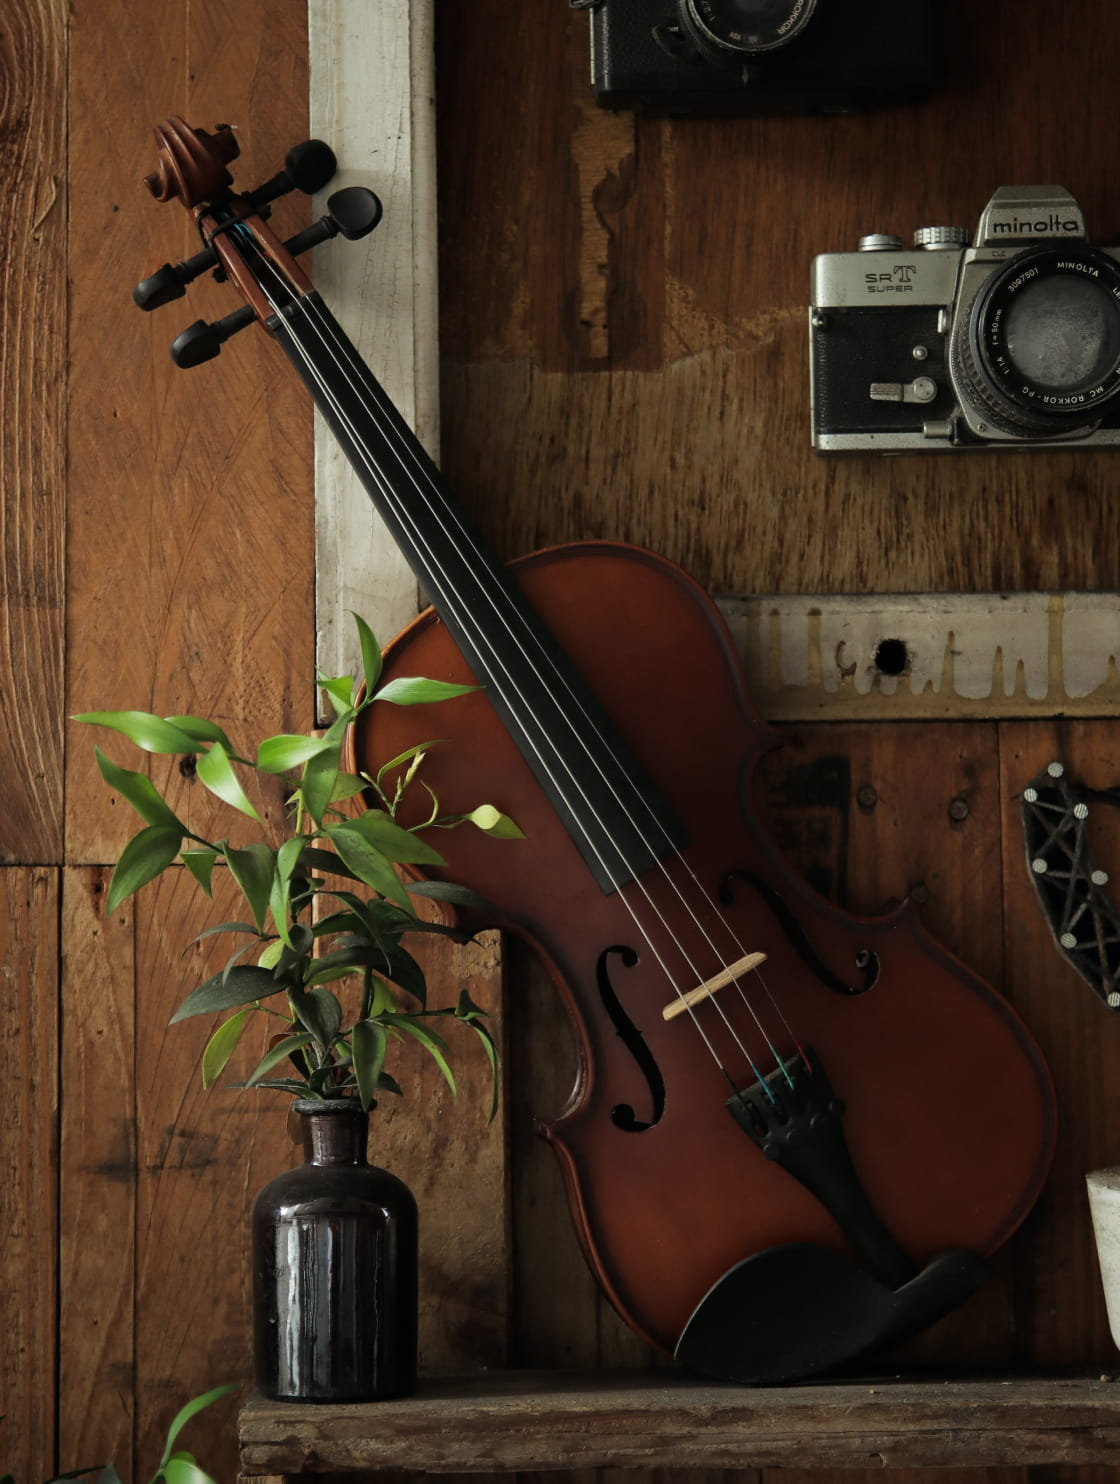
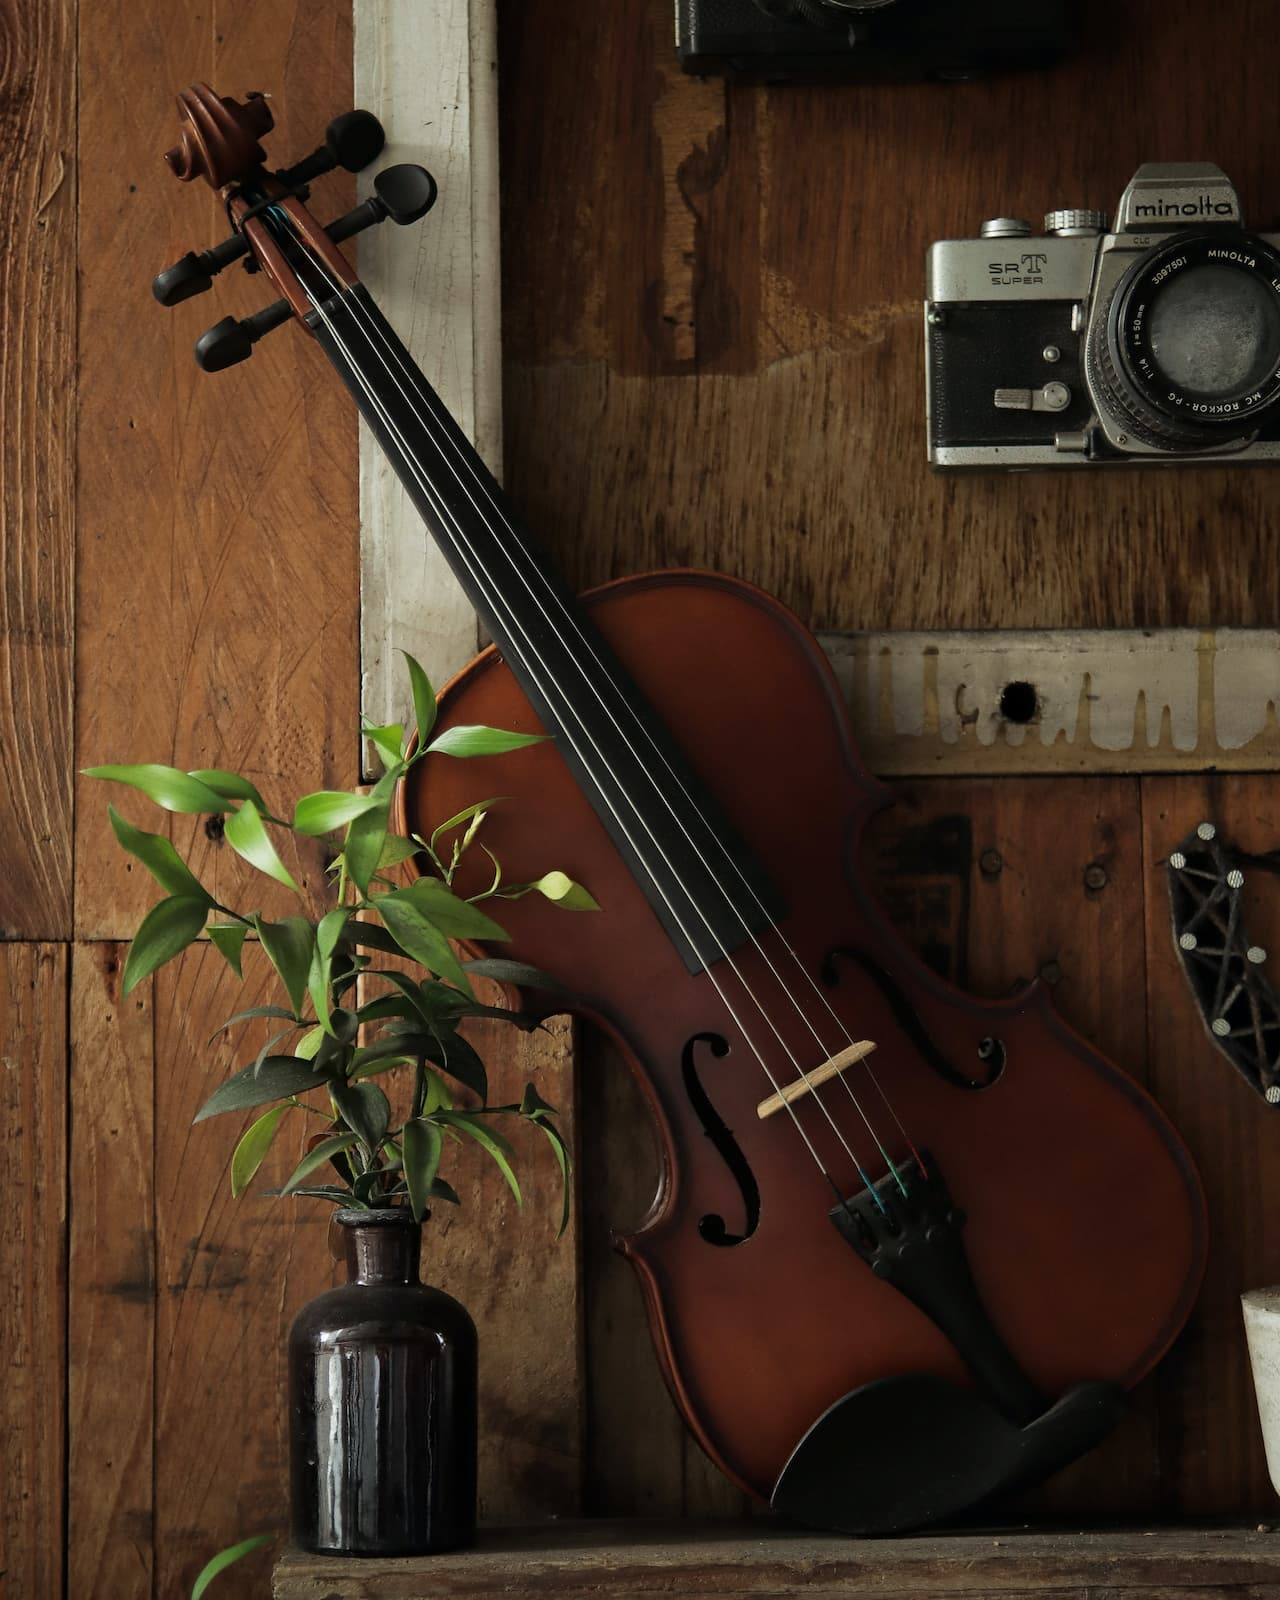
update-introdução

diff --git a/site3/css/style.css b/site3/css/style.css
@@ -1,48 +1,68 @@
 @charset "UTF-8";
 
-@import url('https://fonts.googleapis.com/css2?family=Courgette&family=Pacifico&family=Roboto:wght@400;500;700;900&display=swap');
+@import url("https://fonts.googleapis.com/css2?family=Courgette&family=Pacifico&family=Roboto:wght@400;500;700;900&display=swap");
 
 @import "./header.css";
+@import "./introducao.css";
 
 :root {
-  --w:   #f7f7f7;
-  --s2:  #ededed;
-  --s3:  #dedede;
-  --s4:  #cccccc;
-  --s5:  #b2b2b2;
-  --s6:  #9c9c9c;
-  --s7:  #717171;
-  --s8:  #595959;
-  --s9:  #404040;
+  --w: #f7f7f7;
+  --s2: #ededed;
+  --s3: #dedede;
+  --s4: #cccccc;
+  --s5: #b2b2b2;
+  --s6: #9c9c9c;
+  --s7: #717171;
+  --s8: #595959;
+  --s9: #404040;
   --s10: #2e2e2e;
   --s11: #1a1a1a;
-  --b:   #0e0e0e;
-  --p1:  #ffbb00;
-  --p2:  #e4a30b;
-  --p3:  #a66f00;
-  --p4:  #664400;
-  --p5:  #332200;
-  --t1:  #835a54;
-  --t2:  #643b35;
-  --t3:  #41201b;
-  --t4:  #321511;
-  --t5:  #220d0a;
-  --titulo: 'Pacifico', cursive; 
-  --subtitulo: 'Courgette', cursive;
-  --texto: 'Roboto', Arial, sans-serif;
+  --b: #0e0e0e;
+  --p1: #ffbb00;
+  --p2: #e4a30b;
+  --p3: #a66f00;
+  --p4: #664400;
+  --p5: #332200;
+  --t1: #835a54;
+  --t2: #643b35;
+  --t3: #41201b;
+  --t4: #321511;
+  --t5: #220d0a;
+  --gradient: linear-gradient(#ffbf00, #f2a60c);
+  --select-gradient: linear-gradient(#ffb60d, #e59317);
+  --titulo: "Pacifico", cursive, Arial, sans-serif;
+  --subtitulo: "Courgette", cursive, Arial, sans-serif;
+  --texto: "Roboto", Arial, sans-serif;
 }
 
 body {
   font-family: Arial, Helvetica, sans-serif;
   margin: 0px;
+  padding-bottom: 600px;
+  background-color: var(--w);
+}
+
+h1,
+ul,
+p {
+  margin: 0px;
 }
 
 ul {
   list-style-type: none;
-  margin: 0px;
   padding: 0px;
 }
 
 a {
   text-decoration: none;
+  color: inherit;
+}
+
+img {
+  width: 100%;
+  display: block;
+}
+
+.ponto {
+  color: var(--p1);
 }

diff --git a/site3/css/header.css b/site3/css/header.css
@@ -17,13 +17,66 @@
 .header-menu {
   display: flex;
   flex-wrap: wrap;
-  gap: 20px;
+  gap: 40px;
 }
 
 .header-menu a {
-  padding: 5px 10px;
+  padding: 16px 0px;
   display: inline-block;
   color: var(--w);
   font-family: var(--texto);
   font-size: 1.125rem;
+  position: relative;
+}
+
+.header-menu a::after { 
+  content: '';
+  display: block;
+  width: 0%;
+  height: 2px;
+  background-color: var(--w);
+  margin-top: 4px;
+  position: absolute;
+}
+
+.header-menu a:hover::after {
+  width: 100%;
+  transition: .3s;
+}
+
+@media (max-width: 800px) {
+  .header-menu {
+    gap: 20px;
+  }
+
+  .header-menu a {
+    padding: 10px 20px;
+    background-color: var(--s11);
+    border-radius: 5px;
+  }
+
+  .header-menu a:hover {
+    background-color: var(--s10);
+    transition: .2s;
+  }
+
+  .header-menu a::after {
+    display: none;
+  }
+}
+
+@media (max-width: 650px) {
+  .header-menu a {
+    font-size: .875rem;
+  }
+
+  .header-menu {
+    justify-content: center;
+    gap: 10px;
+  }
+
+  .header {
+    display: grid;
+    justify-content: center;
+  }
 }

diff --git a/site3/index.html b/site3/index.html
@@ -22,6 +22,18 @@
       </nav>
     </div>
   </header>
+  <main class="introducao-bg">
+    <div class="introducao">
+      <div class="introducao-conteudo">
+        <h1>Violinos feitos sob medida<span class="ponto">.</span></h1>
+        <p>Nossa empresa é focada em construção violinos de alta qualidade, de acordo com a necessidade de cada cliente. Nosso foco é no detalhe e na qualidade.</p>
+        <a href="./servicos.html">encomende o seu</a>
+      </div>
+      <picture class="introducao-img">
+        <img src="./img/img-otimization/home-principal.jpg" alt="Violino apoiado em flor">
+      </picture>
+    </div>
+  </main>
 </body>
 
 </html>
